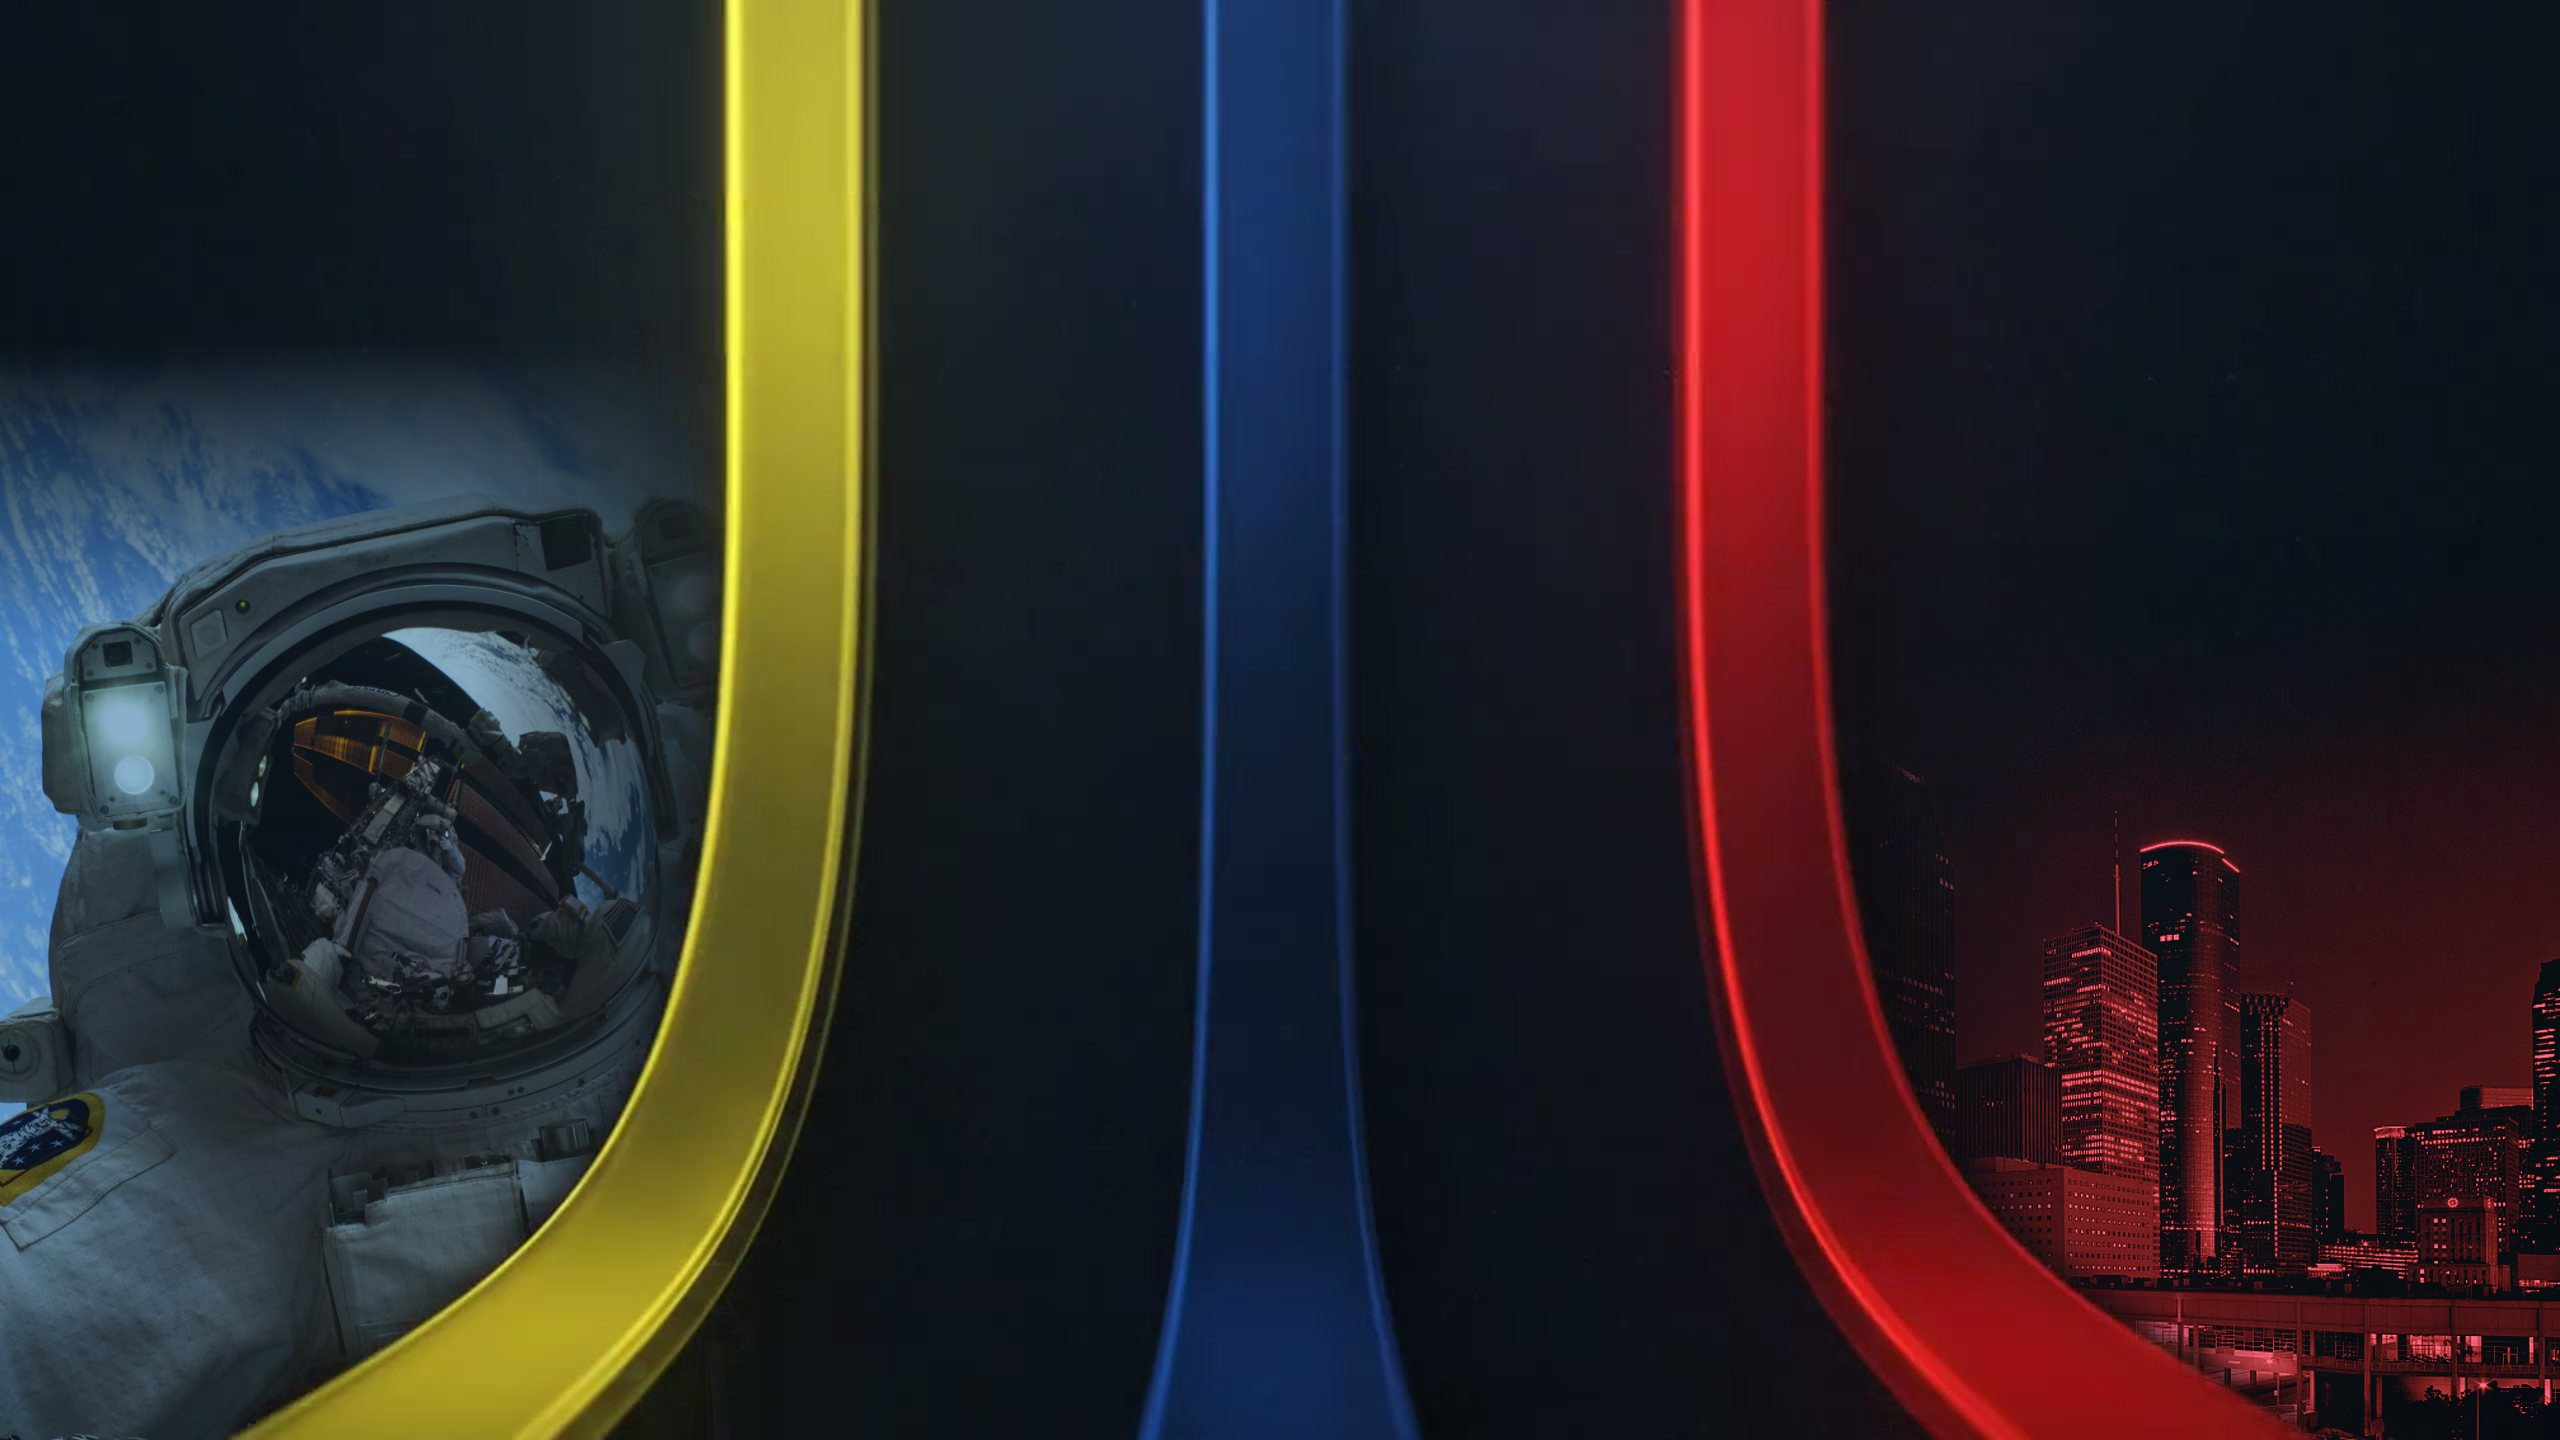
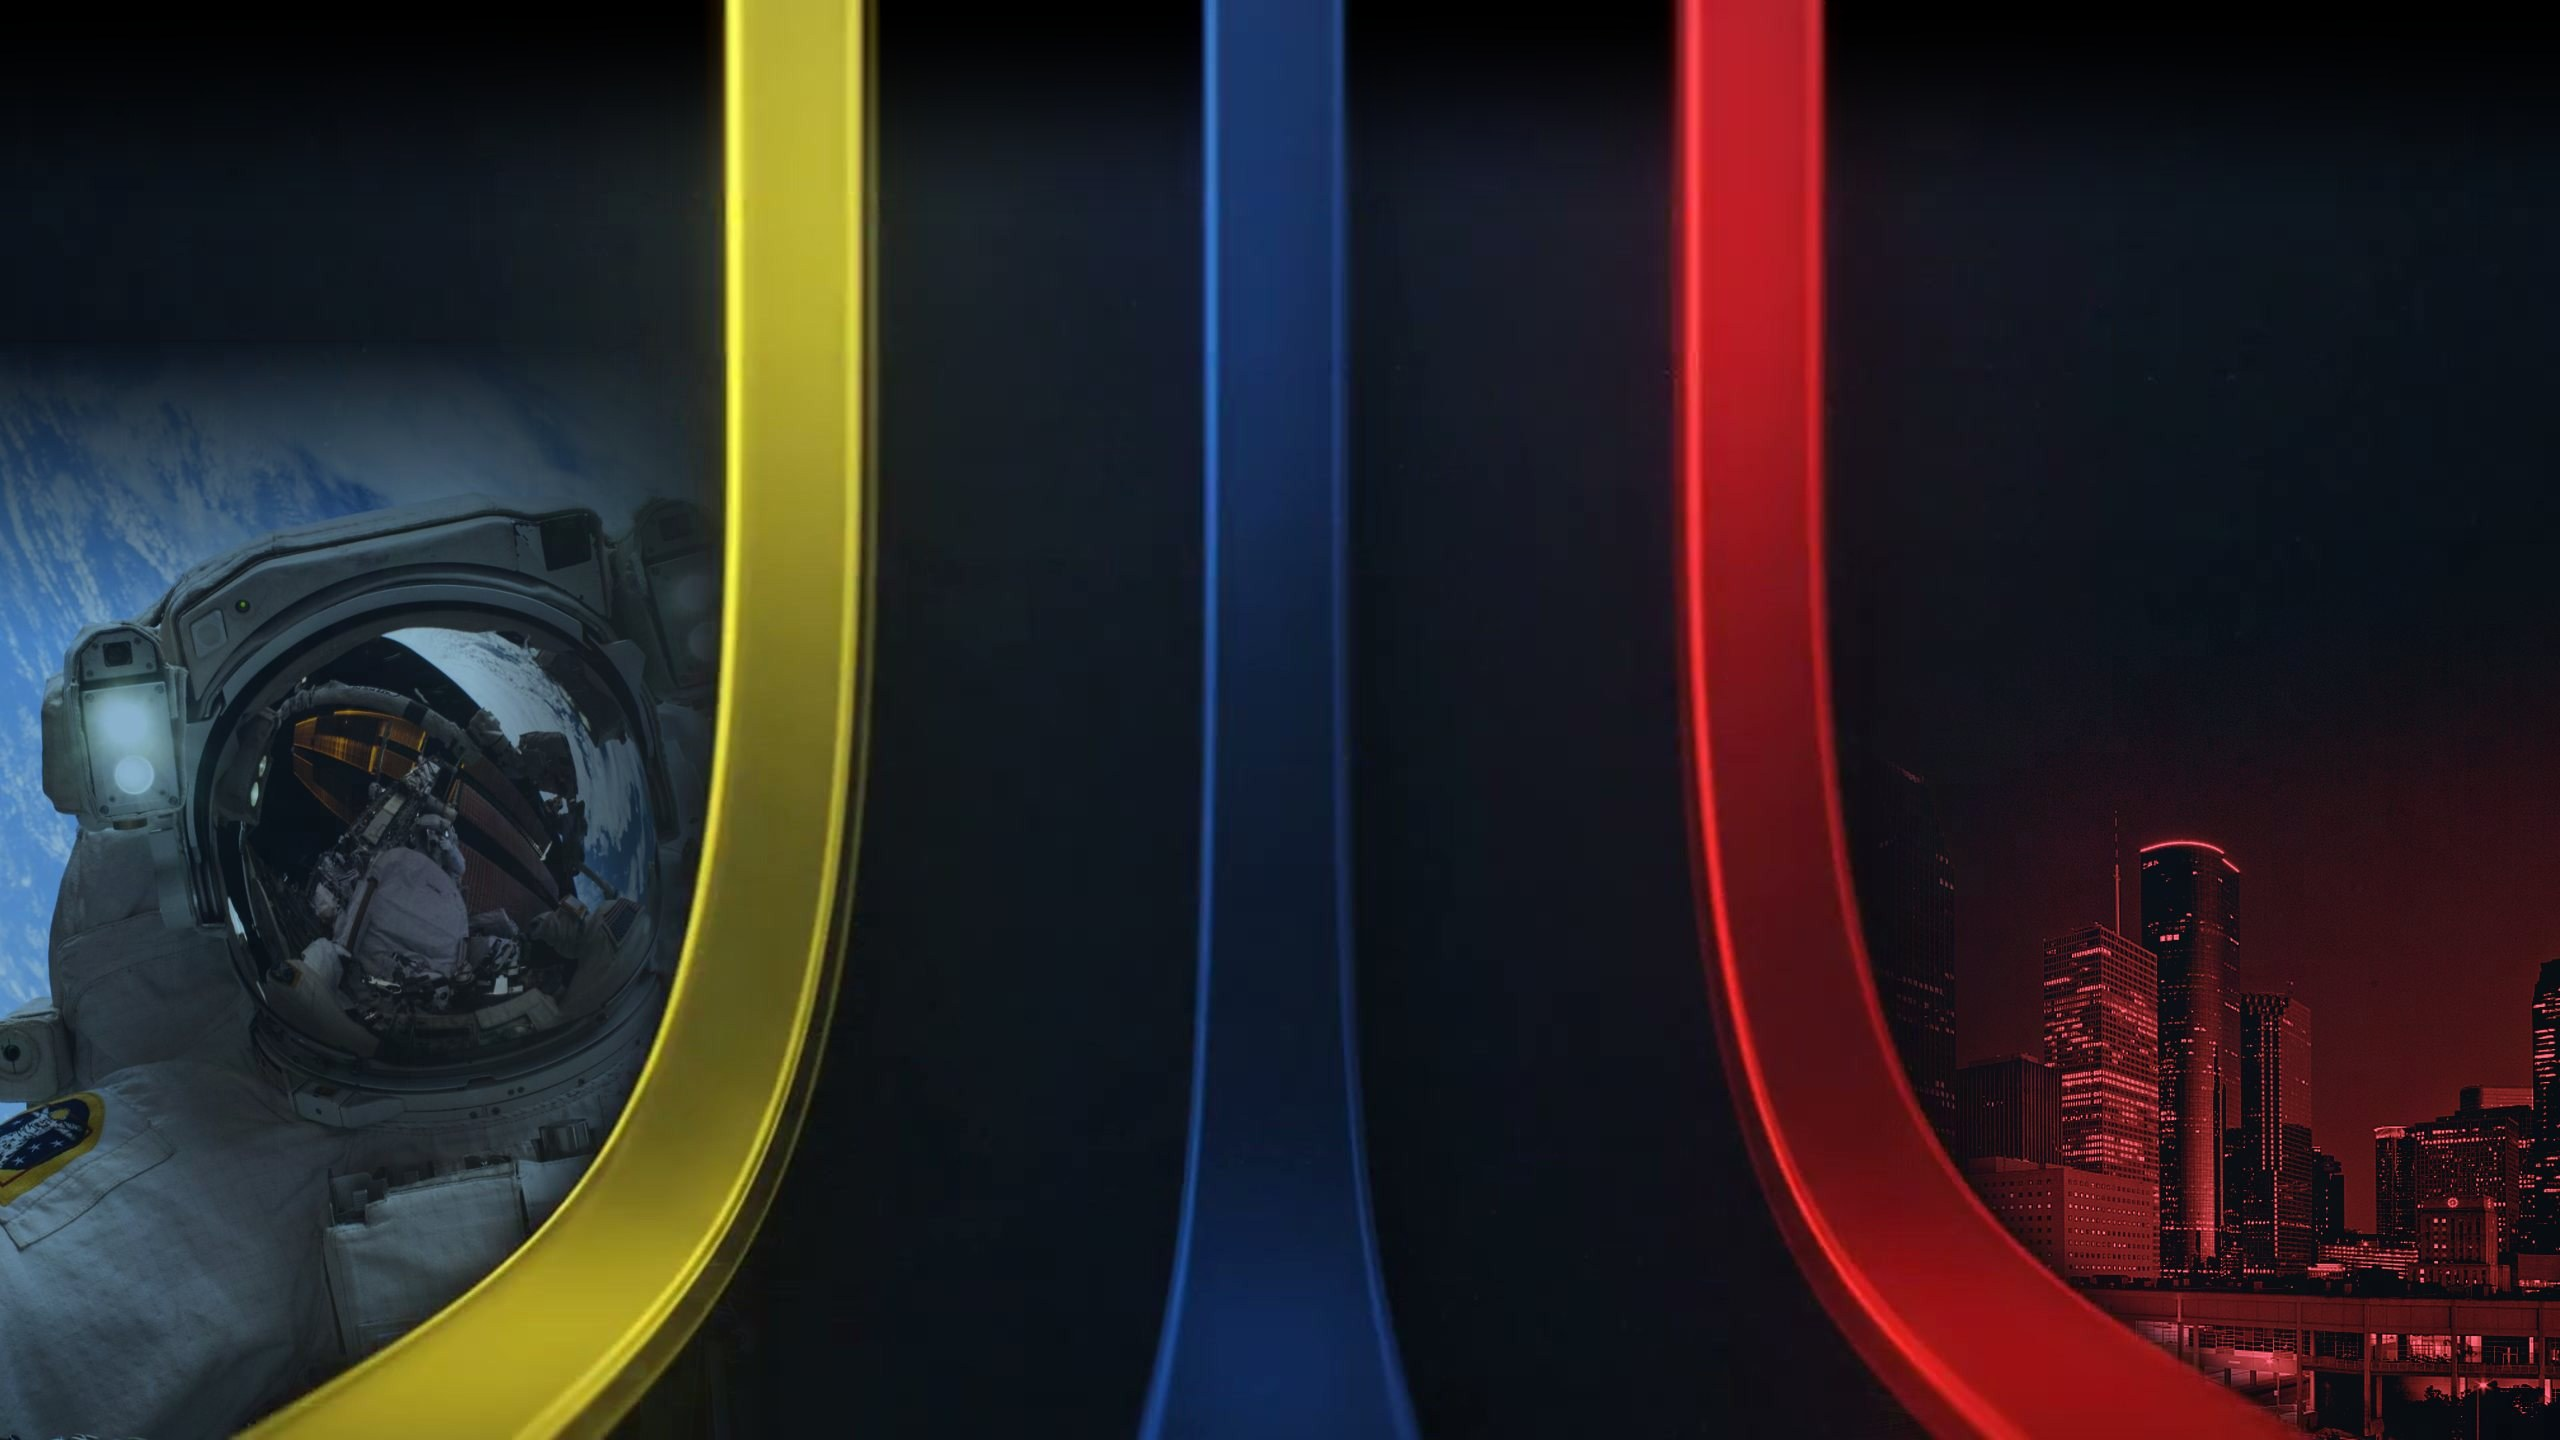
Tech Talks: neon tubes rise out of the join art into the message and the globe

diff --git a/src/components/sections/TechTalksSection.tsx b/src/components/sections/TechTalksSection.tsx
@@ -251,19 +251,84 @@ const LEARNED = [
   'at the NASA International Space Apps Challenge.'
 ];
 
+/* the three neon tubes of the join key art, carried up into this frame. x and width are shares of the
+   art's width (the same in the desktop and mobile art); each tube rises until it meets the message or the globe */
+const TUBES = [
+  { color: 'yellow', x: 0.30996, w: 0.07344, s: 0.66 },
+  { color: 'blue', x: 0.49707, w: 0.07422, s: 0.7 },
+  { color: 'red', x: 0.6834, w: 0.07656, s: 0.74 }
+];
+const TUBE_CORE = 0.0547; // lit glass without the glow
+const GLOBE_DISK = 0.39; // globe video: the Earth's radius as a share of the frame
+const TIP = 20; // px a tube runs past the contact point, so its feathered tip meets the edge solid
+
 const Learned: React.FC = () => {
   const ref = useScrollProgress<HTMLElement>('pin');
+
+  useEffect(() => {
+    const section = ref.current;
+    const stick = section?.firstElementChild as HTMLElement | null;
+    const join = section?.nextElementSibling?.firstElementChild as HTMLElement | null;
+    const globe = section?.querySelector<HTMLElement>('.tt-learn-globe');
+    if (!section || !stick) return;
+    const lines = Array.from(section.querySelectorAll<HTMLElement>('.tt-learn-line'));
+    const tubes = Array.from(section.querySelectorAll<HTMLElement>('.tt-tube'));
+    const wide = window.matchMedia('(min-width: 900px)');
+
+    const measure = () => {
+      // the join art is object-fit: cover in the next frame, so its width is set by that frame's box
+      const artW = join ? Math.max(join.clientWidth, join.clientHeight * (wide.matches ? 16 / 9 : 9 / 16)) : stick.clientWidth;
+      stick.style.setProperty('--art', `${artW}px`);
+      const box = stick.getBoundingClientRect();
+      const rects = lines.flatMap((l) => Array.from(l.getClientRects()));
+      const g = globe?.getBoundingClientRect();
+      TUBES.forEach((t, i) => {
+        const x = box.left + box.width / 2 + (t.x - 0.5) * artW;
+        const half = (TUBE_CORE * artW) / 2;
+        let top = box.top; // nothing in the way: run out of the top of the frame
+        for (const r of rects) if (r.width && r.left < x + half && r.right > x - half) top = Math.max(top, r.bottom - TIP);
+        if (g && globe) {
+          const radius = globe.offsetWidth * GLOBE_DISK;
+          const dx = x - (g.left + g.width / 2);
+          if (Math.abs(dx) < radius * 0.9) top = Math.max(top, g.top + g.height / 2 + Math.sqrt(radius * radius - dx * dx) - radius * 0.03 - TIP);
+        }
+        tubes[i]?.style.setProperty('--len', `${Math.max(0, box.bottom - top)}px`);
+      });
+    };
+
+    measure();
+    const ro = new ResizeObserver(measure);
+    ro.observe(stick);
+    if (join) ro.observe(join);
+    const text = section.querySelector('.tt-learn-text');
+    if (text) ro.observe(text); // re-wraps when the web font arrives
+    wide.addEventListener('change', measure);
+    document.fonts?.ready.then(measure).catch(() => undefined);
+    return () => {
+      ro.disconnect();
+      wide.removeEventListener('change', measure);
+    };
+  }, [ref]);
+
   return (
     <section ref={ref} className="tt-learn" aria-labelledby="tt-learn-title">
       <div className="tt-stick">
         <div className="tt-stars" aria-hidden="true" />
         <LoopVideo name="globe" className="tt-learn-globe" large />
+        <div className="tt-tubes" aria-hidden="true">
+          {TUBES.map((t) => (
+            <span key={t.color} className={`tt-tube is-${t.color}`} style={{ '--x': t.x, '--w': t.w, '--s': t.s } as VarStyle}>
+              <i className="tt-tube-body" />
+              <i className="tt-tube-hit" />
+            </span>
+          ))}
+        </div>
         <h2 id="tt-learn-title" className="tt-learn-text m-0">
           {LEARNED.map((line, i) => (
             <span
               key={line}
               className={`tt-q tt-learn-line${i === LEARNED.length - 1 ? ' is-accent' : ''}`}
-              style={{ '--s': 0.04 + i * 0.16, '--k': 6 } as VarStyle}
+              style={{ '--s': 0.04 + i * 0.14, '--k': 6 } as VarStyle}
             >
               {line}{' '}
             </span>

diff --git a/src/components/tech-talks/techTalks.css b/src/components/tech-talks/techTalks.css
@@ -389,7 +389,9 @@
 }
 
 /* ---------- 4. take what you have learned: the rotating Earth ---------- */
-.tt-learn { height: 260vh; background: #000; }
+.tt-learn { height: 300vh; background: #000; }
+/* width of the join key art as drawn in the next frame (object-fit: cover); set exactly from script */
+.tt-learn .tt-stick { --art: max(100vw, 56.25svh); }
 .tt-learn-globe {
   position: absolute;
   z-index: 1;
@@ -422,13 +424,56 @@
   filter: blur(calc((1 - var(--q)) * 10px));
 }
 .tt-learn-line.is-accent { color: var(--tt-yellow); }
+.tt-learn .tt-stick { --lit: clamp(0, calc((var(--p, 0) - 0.803) * 12), 1); }
+.tt-learn-line.is-accent { text-shadow: 0 2px 20px rgba(0, 0, 0, 0.9), 0 0 calc(var(--lit) * 26px) rgba(234, 254, 7, calc(var(--lit) * 0.4)); }
 @media (min-width: 900px) {
-  .tt-learn-globe { left: auto; right: 3vw; top: 50%; width: min(52vw, 88svh); translate: 0 -50%; }
-  .tt-learn-text { right: auto; top: 50%; bottom: auto; width: 44vw; translate: 0 -50%; font-size: clamp(34px, 3.8vw, 58px); }
+  .tt-learn .tt-stick { --art: max(100vw, 177.78svh); }
+  /* the globe sits over the blue and red tubes so both run into it */
+  .tt-learn-globe { left: calc(50% + 0.09 * var(--art)); top: 50%; width: min(46vw, 80svh); translate: -50% -50%; }
+  .tt-learn-text { right: auto; top: 50%; bottom: auto; width: 36vw; translate: 0 -50%; font-size: clamp(30px, 3.2vw, 52px); }
 }
+/* neon tubes rising out of the join art: strips cut from the art itself, so they meet it seamlessly */
+.tt-tubes { position: absolute; inset: 0; z-index: 1; pointer-events: none; }
+.tt-tube {
+  --g: clamp(0, calc((var(--p, 0) - var(--s)) * 7), 1);
+  --hit: clamp(0, calc((var(--p, 0) - var(--s) - 0.143) * 12), 1);
+  position: absolute;
+  bottom: 0;
+  left: calc(50% + (var(--x) - 0.5) * var(--art));
+  width: calc(var(--w) * var(--art));
+  height: var(--len, 0px);
+  translate: -50% 0;
+}
+.tt-tube-body {
+  position: absolute;
+  inset: 0;
+  background: url('/tech-talks/story/tube-yellow.png') center top / 100% 4px repeat-y;
+  translate: 0 calc((1 - var(--g)) * 100%);
+  -webkit-mask-image: linear-gradient(to bottom, transparent, #000 34px);
+  mask-image: linear-gradient(to bottom, transparent, #000 34px);
+  will-change: translate;
+}
+.tt-tube.is-blue .tt-tube-body { background-image: url('/tech-talks/story/tube-blue.png'); }
+.tt-tube.is-red .tt-tube-body { background-image: url('/tech-talks/story/tube-red.png'); }
+/* where a tube meets the message or the planet, it lights the contact point */
+.tt-tube-hit {
+  --c: 234, 254, 7;
+  position: absolute;
+  left: 50%;
+  top: 20px;
+  width: 300%;
+  aspect-ratio: 3.4;
+  translate: -50% -50%;
+  border-radius: 50%;
+  background: radial-gradient(closest-side, rgba(var(--c), 0.38), rgba(var(--c), 0.14) 45%, transparent);
+  opacity: var(--hit);
+  scale: calc(0.7 + var(--hit) * 0.3);
+}
+.tt-tube.is-blue .tt-tube-hit { --c: 64, 132, 255; }
+.tt-tube.is-red .tt-tube-hit { --c: 255, 48, 56; }
 
 /* ---------- 5. join Space Apps: key art, then the Houston mark ---------- */
-.tt-join { height: 280vh; background: #05080f; }
+.tt-join { height: 280vh; background: #000; }
 .tt-join .tt-stick { --f: clamp(0, calc((var(--p, 0) - 0.42) * 6), 1); }
 .tt-join-bg {
   position: absolute;
@@ -436,6 +481,8 @@
   width: 100%;
   height: 100%;
   object-fit: cover;
+  /* pinned to the top edge, where the tubes continue from the frame above */
+  object-position: 50% 0;
 }
 .tt-join-frame {
   position: absolute;
